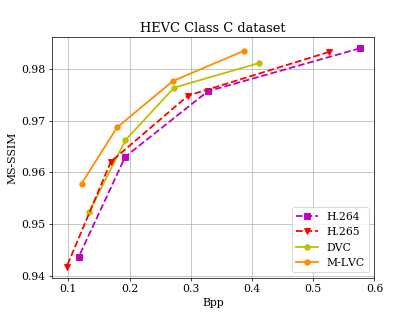
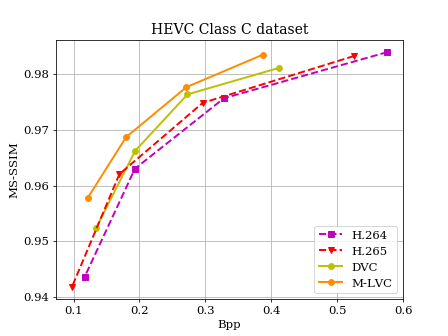
update performance

diff --git a/Benchmark/draw_HEVC.py b/Benchmark/draw_HEVC.py
@@ -103,7 +103,7 @@ def drawhevc(hclass):
     plt.ylabel('PSNR')
     plt.title('HEVC Class ' + hclass + ' dataset')
     # plt.savefig(savepathpsnr + '.eps', format='eps', dpi=300, bbox_inches='tight')
-    plt.savefig(savepathpsnr + '.png', dpi=65)
+    plt.savefig(savepathpsnr + '.png', dpi=70)
     plt.clf()
 
     # ----------------------------------------MSSSIM-------------------------------------------------
@@ -200,7 +200,7 @@ def drawhevc(hclass):
     plt.ylabel('MS-SSIM')
     plt.title('HEVC Class ' + hclass + ' dataset')
     # plt.savefig(savepathmsssim + '.eps', format='eps', dpi=300, bbox_inches='tight')
-    plt.savefig(savepathmsssim + '.png', dpi=65)
+    plt.savefig(savepathmsssim + '.png', dpi=70)
     plt.clf()
 
 drawhevc('B')

diff --git a/Benchmark/draw_uvg.py b/Benchmark/draw_uvg.py
@@ -46,7 +46,7 @@ plt.xlabel('Bpp')
 plt.ylabel('PSNR')
 plt.title('UVG dataset')
 # plt.savefig(savepathpsnr + '.eps', format='eps', dpi=300, bbox_inches='tight')
-plt.savefig(savepathpsnr + '.png', dpi=60)
+plt.savefig(savepathpsnr + '.png', dpi=70)
 plt.clf()
 
 # ----------------------------------------MSSSIM-------------------------------------------------
@@ -85,5 +85,5 @@ plt.xlabel('Bpp')
 plt.ylabel('MS-SSIM')
 plt.title('UVG dataset')
 # plt.savefig(savepathmsssim + '.eps', format='eps', dpi=300, bbox_inches='tight')
-plt.savefig(savepathmsssim + '.png', dpi=60)
+plt.savefig(savepathmsssim + '.png', dpi=70)
 plt.clf()

diff --git a/Benchmark/draw_vtl.py b/Benchmark/draw_vtl.py
@@ -33,7 +33,7 @@ plt.xlabel('Bpp')
 plt.ylabel('PSNR')
 plt.title('VTL dataset')
 # plt.savefig(savepathpsnr + '.eps', format='eps', dpi=300, bbox_inches='tight')
-plt.savefig(savepathpsnr + '.png', dpi=50)
+plt.savefig(savepathpsnr + '.png', dpi=70)
 plt.clf()
 
 # ----------------------------------------MSSSIM-------------------------------------------------
@@ -65,5 +65,5 @@ plt.xlabel('Bpp')
 plt.ylabel('MS-SSIM')
 plt.title('VTL dataset')
 # plt.savefig(savepathmsssim + '.eps', format='eps', dpi=300, bbox_inches='tight')
-plt.savefig(savepathmsssim + '.png', dpi=50)
+plt.savefig(savepathmsssim + '.png', dpi=70)
 plt.clf()

diff --git a/README.md b/README.md
@@ -16,11 +16,11 @@ PyTorch implementation and benchmark of Video Compression
 ### HEVC Class B dataset
 ![](Benchmark/HEVCresults/HEVCClass_E_psnr.png)![](Benchmark/HEVCresults/HEVCClass_E_msssim.png)
 ### UVG dataset
-![](Benchmark/UVGresults/UVG_psnr.png)![](Benchmark/UVGresults/UVG_psnr.png)
+![](Benchmark/UVGresults/UVG_psnr.png)![](Benchmark/UVGresults/UVG_msssim.png)
 ### MCL-JCV dataset
-![](Benchmark/MCLresults/MCL_psnr.png)![](Benchmark/MCLresults/MCL_psnr.png)
+![](Benchmark/MCLresults/MCL_psnr.png)![](Benchmark/MCLresults/MCL_msssim.png)
 ### VTL dataset
-![](Benchmark/VTLresults/VTL_psnr.png)![](Benchmark/VTLresults/VTL_psnr.png)
+![](Benchmark/VTLresults/VTL_psnr.png)![](Benchmark/VTLresults/VTL_msssim.png)
 
 
 # Contact

diff --git a/Benchmark/README.md b/Benchmark/README.md
@@ -17,11 +17,11 @@
 ## HEVC Class B dataset
 ![](HEVCresults/HEVCClass_E_psnr.png)![](HEVCresults/HEVCClass_E_msssim.png)
 ## UVG dataset
-![](UVGresults/UVG_psnr.png)![](UVGresults/UVG_psnr.png)
+![](UVGresults/UVG_psnr.png)![](UVGresults/UVG_msssim.png)
 ## MCL-JCV dataset
-![](MCLresults/MCL_psnr.png)![](MCLresults/MCL_psnr.png)
+![](MCLresults/MCL_psnr.png)![](MCLresults/MCL_msssim.png)
 ## VTL dataset
-![](VTLresults/VTL_psnr.png)![](VTLresults/VTL_psnr.png)
+![](VTLresults/VTL_psnr.png)![](VTLresults/VTL_msssim.png)
 
 
 ## Setting of H.264 and H.265
